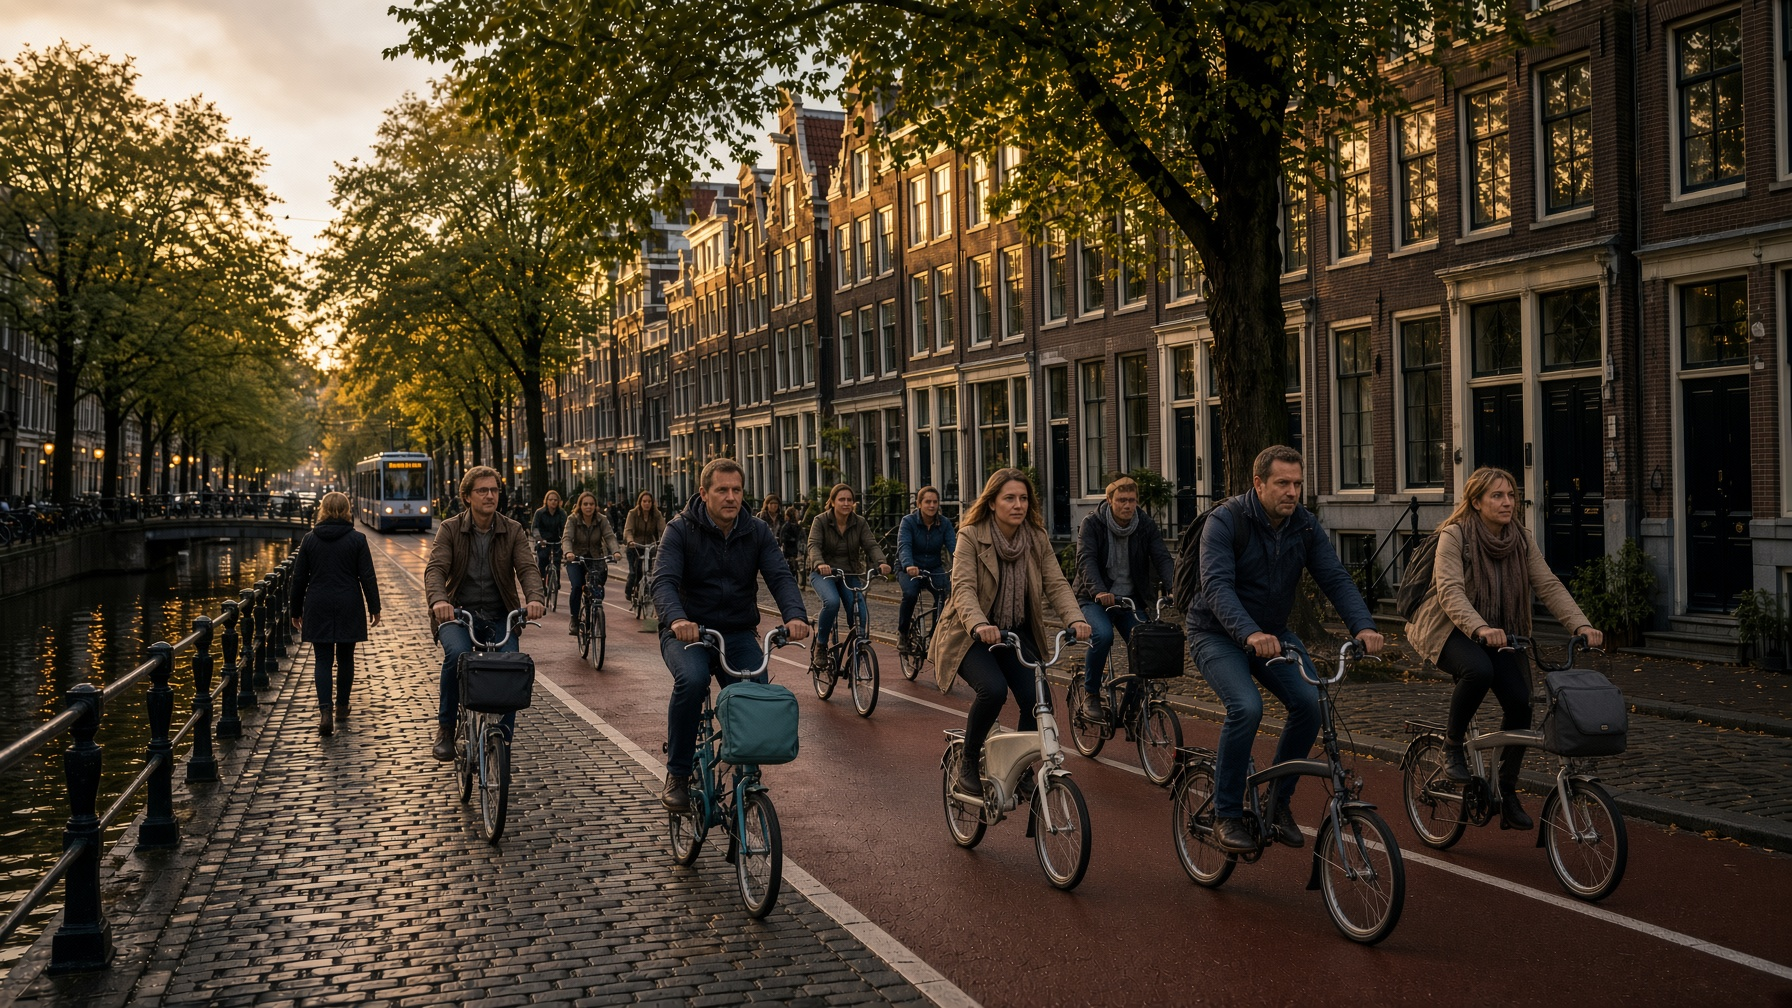
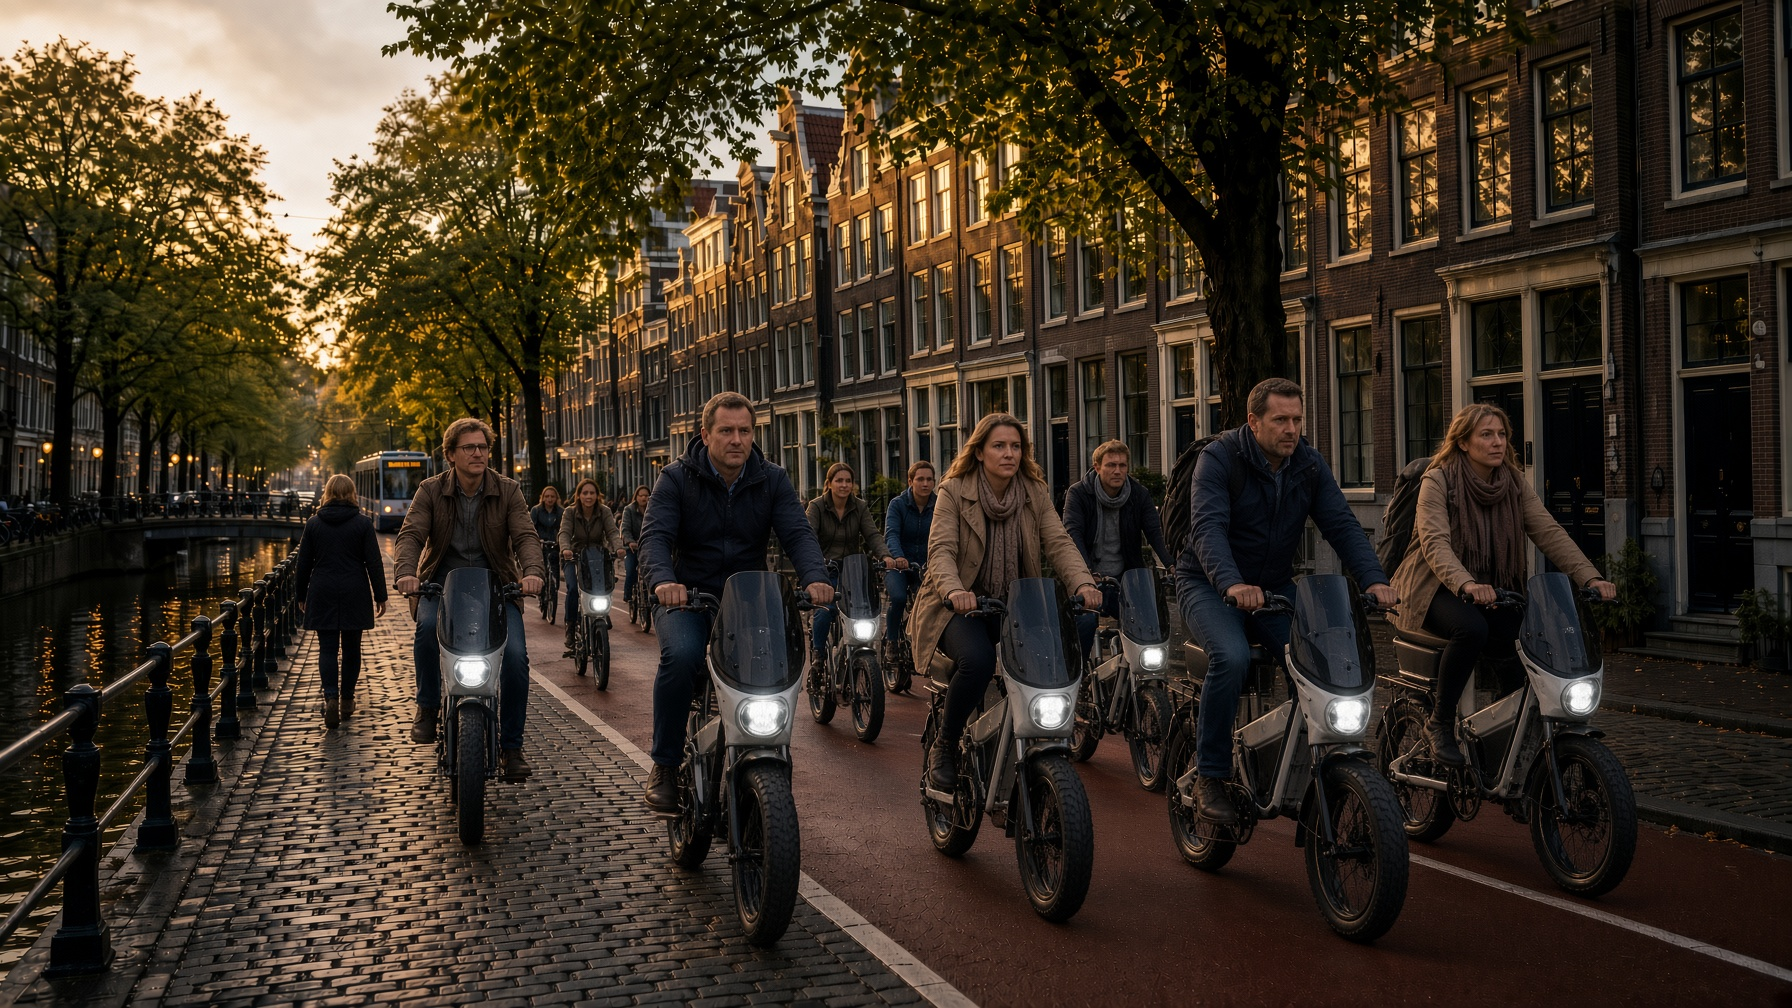
Amsterdam story photo: Puca-scale folding frames, not Brompton minis.

diff --git a/index.html b/index.html
@@ -1342,7 +1342,7 @@
       <h2 class="section-title">From Amsterdam folding bikes to a motorcycle that travels.</h2>
       <figure class="story-hero">
         <img src="assets/amsterdam-folding-ebikes.jpg" alt="Folding e-bikes riding the bike lanes of downtown Amsterdam at golden hour, canal houses and cobblestones" />
-        <figcaption>Downtown Amsterdam — folding e-bikes on the lanes that inspired Puca.</figcaption>
+        <figcaption>Downtown Amsterdam — full-size folding frames on the lanes that inspired Puca.</figcaption>
       </figure>
       <div class="story-copy">
         <p>
